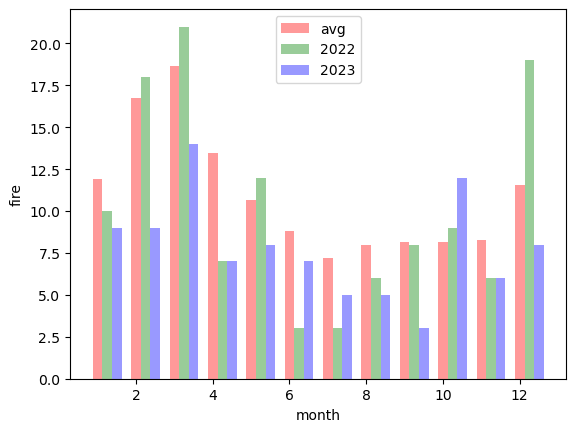
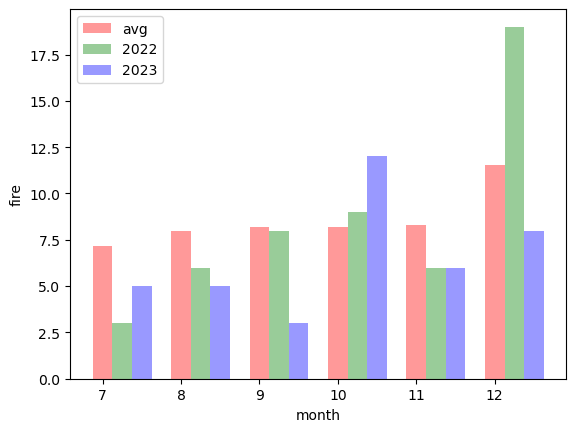
Modify 17th image

diff --git a/readme.md b/readme.md
@@ -88,20 +88,20 @@
     - Random oversampling 후 correlation matrix \
         <img src="./readme_image/12.ro-cmatrix.png" width=500>
     - 모델 학습 결과 
-        |평가지표/알고리즘|로지스틱 회귀|K 최근접|결정 트리|랜덤 포레스트|그라디언트 부스팅|
-        |------|---|---|---|---|---|
-        |F1 score|64.95%|62.75%|67.09%|68.42%|68.87%|
-        |ROC AUC score|0.71382|0.62195|0.65407|0.66671|0.67664|
-        |정확도|68.39%|63.21%|67.88%|68.05%|68.91%|
+        | 평가지표/알고리즘 | 로지스틱 회귀 | K 최근접 | 결정 트리 | 랜덤 포레스트 | 그라디언트 부스팅 |
+        | ----------------- | ------------- | -------- | --------- | ------------- | ----------------- |
+        | F1 score          | 64.95%        | 62.75%   | 67.09%    | 68.42%        | 68.87%            |
+        | ROC AUC score     | 0.71382       | 0.62195  | 0.65407   | 0.66671       | 0.67664           |
+        | 정확도            | 68.39%        | 63.21%   | 67.88%    | 68.05%        | 68.91%            |
 - SMOTE oversampling: 라벨 수가 적은 클래스를 분포에 맞춰 생성하여 라벨 수가 많은 쪽과 라벨 수 맞추는 방법
     - SMOTE oversampling 후 correlation matrix \
         <img src="./readme_image/13.smote-cmatrix.png" width=500>
     - 모델 학습 결과
-        |평가지표/알고리즘|로지스틱 회귀|K 최근접|결정 트리|랜덤 포레스트|그라디언트 부스팅|
-        |------|---|---|---|---|---|
-        |F1 score|65.80%|92.34%|90.18%|94.48%|93.29%|
-        |ROC AUC score|0.73855|0.92029|0.90846|0.95025|0.94233|
-        |정확도|70.98%|84.13%|83.59%|90.42%|89.97%|
+        | 평가지표/알고리즘 | 로지스틱 회귀 | K 최근접 | 결정 트리 | 랜덤 포레스트 | 그라디언트 부스팅 |
+        | ----------------- | ------------- | -------- | --------- | ------------- | ----------------- |
+        | F1 score          | 65.80%        | 92.34%   | 90.18%    | 94.48%        | 93.29%            |
+        | ROC AUC score     | 0.73855       | 0.92029  | 0.90846   | 0.95025       | 0.94233           |
+        | 정확도            | 70.98%        | 84.13%   | 83.59%    | 90.42%        | 89.97%            |
 - 최종적으로 SMOTE oversampling의 랜덤 포레스트 모델을 화재 예측 모델로 채택
 
 ### (8) 2023.01~2023.06 화재예측결과 비교
@@ -121,6 +121,6 @@
     <img src="./readme_image/16.compare-2.png" width=800>
 - 전체 화재 중 예측좌표에서 정확히 화재가 발생한 정확도: 10.26%
 - 전체 화재 중 예측좌표 및 그 주변에서 화재가 발생한 정확도: 46.15%
-- 11년 동안의 월별 화재횟수 평균 vs. 2022년 월별 화재횟수 vs. 2023년 월별 화재횟수 그래프 \
+- 07월~12월에서 11년 동안의 월별 화재횟수 평균 vs. 2022년 월별 화재횟수 vs. 2023년 월별 화재횟수 그래프 \
     <img src="./readme_image/17.fire-compare.png" width=500>
 - 시책 시행 후 2022년에 비해 07~12월의 화재 12건이 감소
